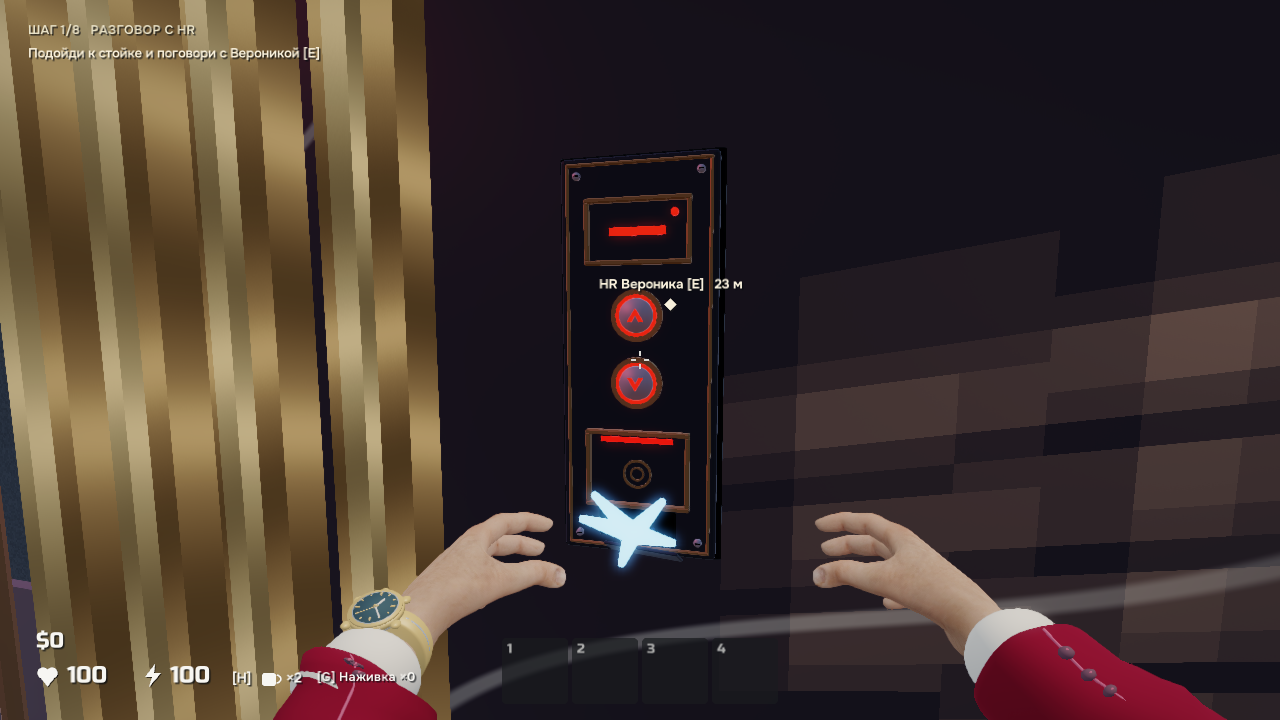
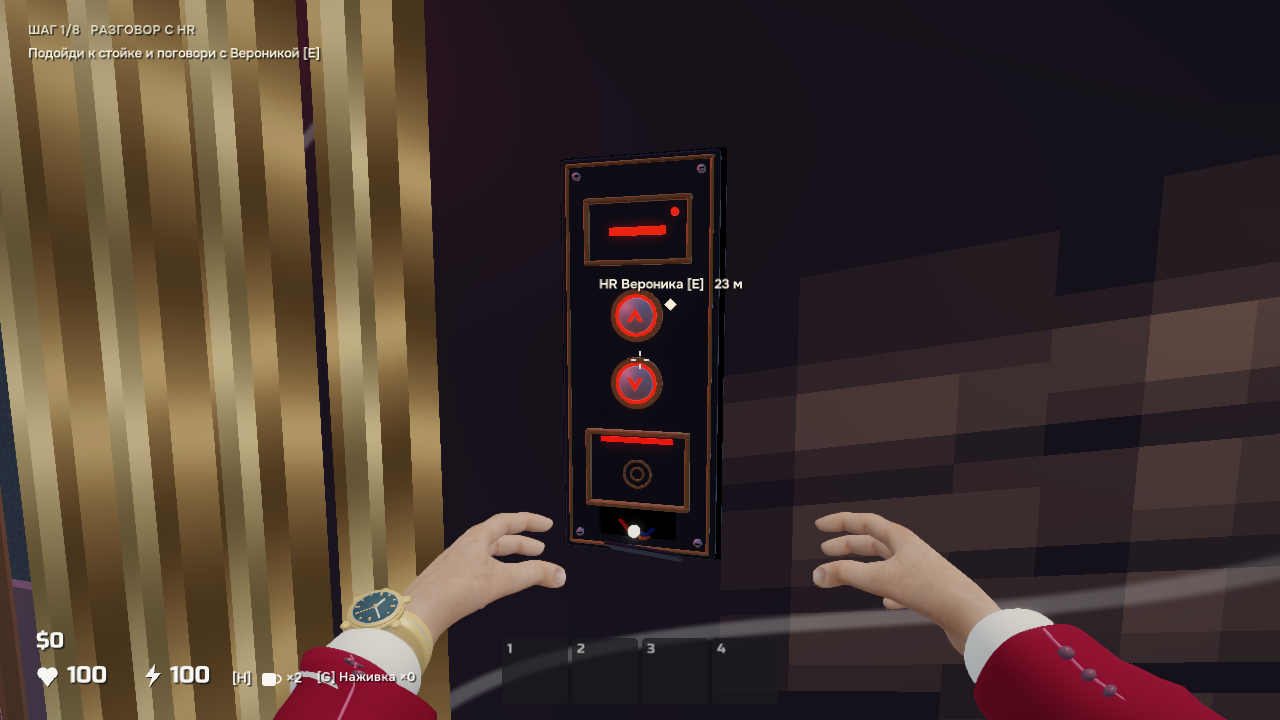
Replace chunky starfish elevator sparks with crisp micro-sparks and arc between severed wires

Changed region(s): [[0.4375, 0.6722, 0.5312, 0.7944]]

diff --git a/LevelAndEntities.cs b/LevelAndEntities.cs
@@ -3684,14 +3684,32 @@ public sealed partial class SkyscraperFloor1World
     {
         bool repair=ElevatorBoss.State==ElevatorBossState.Repairing;
         if(!BrokenElevator && !repair) return;
-        float t=repair ? (RepairSeconds-ElevatorBoss.StateTimer)% .42f : (_worldClock+(side+1)*.36f)%2.17f;
-        if(t>.23f || (repair && ElevatorBoss.StateTimer<1.25f)) return;
-        for(int i=0;i<(repair ? 11 : 5);i++)
+        float period=repair ? .38f : 1.85f;
+        float cycleTime=_worldClock+(side+1)*.41f;
+        float burst=repair ? (RepairSeconds-ElevatorBoss.StateTimer)%period : cycleTime%period;
+        if(burst>.26f || (repair && ElevatorBoss.StateTimer<1.25f)) return;
+        int seed=(int)(cycleTime/period)*31+side*7;
+        Vector3 origin=panel+new Vector3(0,-.202f,side*.034f);
+        // Tiny localized arc flash right between the two copper wire tips during initial snap.
+        if(burst<.06f)
+            VisualEngine3D.Orb(origin,.0075f*(1f-burst/.06f),new(255,244,208,255),Finish.Lamp);
+        int count=repair ? 14 : 8;
+        for(int i=0;i<count;i++)
         {
-            float angle=i*2.4f+(int)(_worldClock/2.17f)*.7f;
-            Vector3 velocity=new(MathF.Cos(angle)*1.24f,.56f+MathF.Sin(angle),side*(.6f+.12f*i));
-            Vector3 head=panel+new Vector3(0,-.202f,side*.040f)+velocity*t-Vector3.UnitY*(4*t*t);
-            VisualEngine3D.Rod(head,head+velocity*.045f,.012f,.004f,5,new(174,214,250,255),Finish.Plasma);
+            float h1=MathF.Sin(seed*12.9898f+i*78.233f)*43758.5453f; h1-=MathF.Floor(h1);
+            float h2=MathF.Sin(seed*39.346f+i*11.135f)*24634.6345f; h2-=MathF.Floor(h2);
+            float h3=MathF.Sin(seed*73.156f+i*52.235f)*19191.1919f; h3-=MathF.Floor(h3);
+            float lag=h3*.07f;
+            float t=burst-lag;
+            if(t<=.006f || t>.22f) continue;
+            float vx=(h1-.5f)*1.35f;
+            float vy=.15f+h2*.75f;
+            float vz=side*(.35f+h3*.85f);
+            Vector3 vel=new(vx,vy-4.8f*t,vz);
+            Vector3 pos=origin+new Vector3((h2-.5f)*.022f,(h1-.5f)*.012f,0)+new Vector3(vx*t,vy*t-2.4f*t*t,vz*t);
+            Vector3 tail=pos-vel*.026f;
+            Color spark=i%3==0 ? new(255,244,205,255) : new(255,186,78,255);
+            VisualEngine3D.Rod(pos,tail,.0022f,.0007f,5,spark,Finish.Lamp);
         }
     }
 
